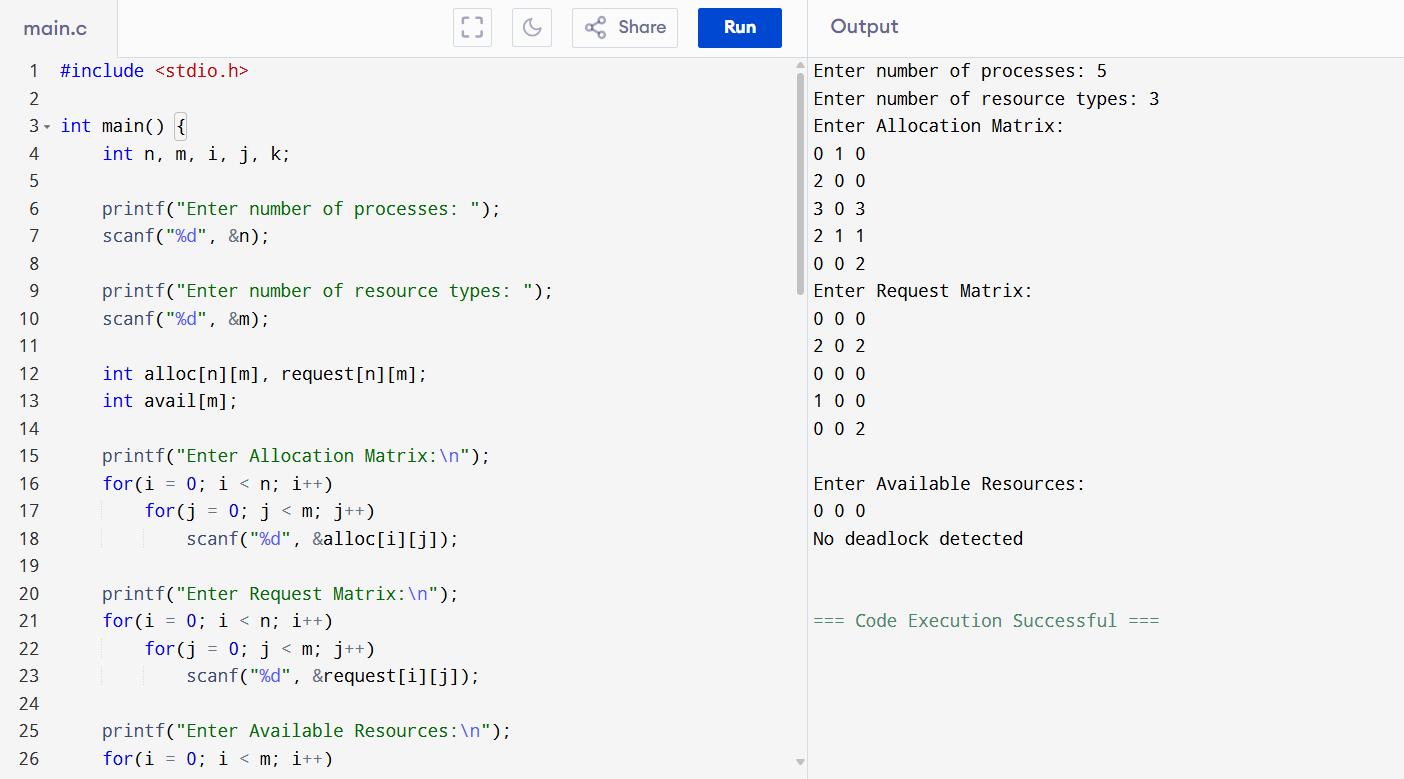
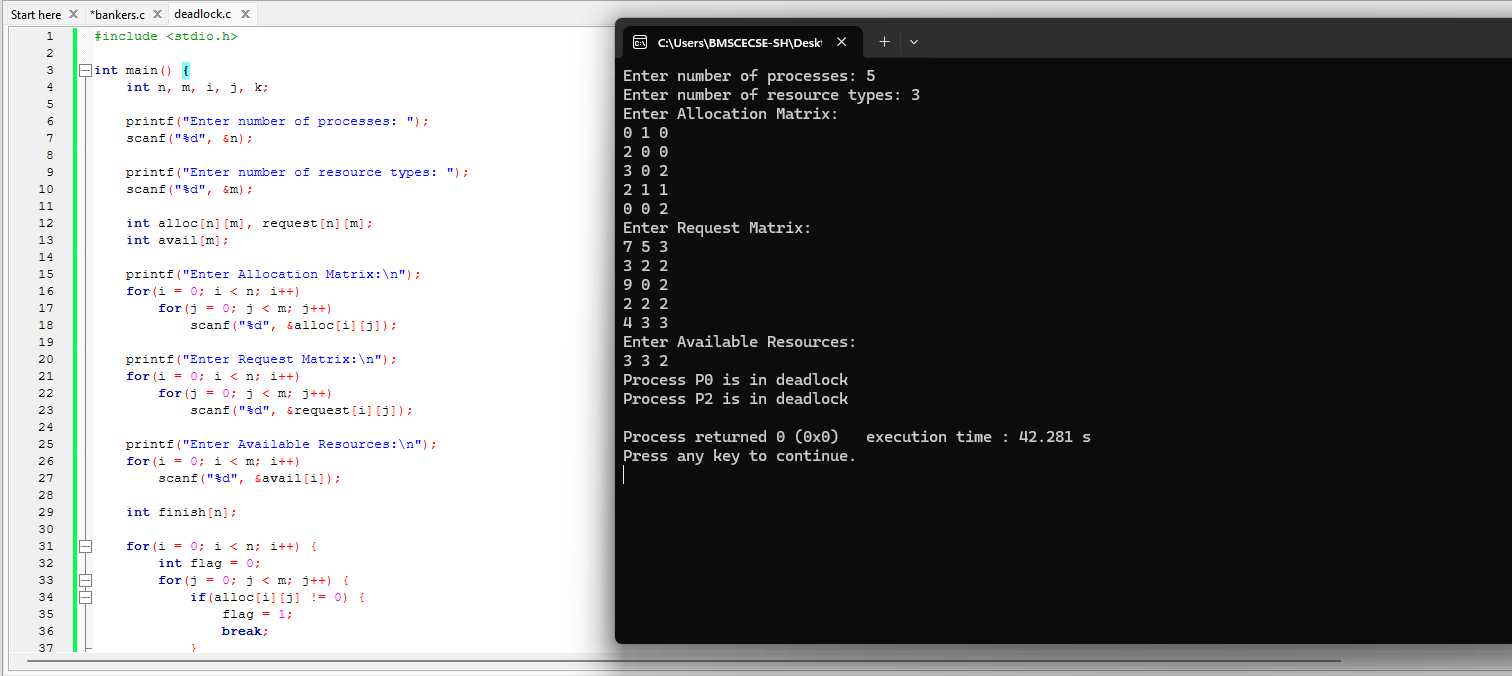
Add files via upload

diff --git a/deadlock.c b/deadlock.c
@@ -1,0 +1,79 @@
+#include <stdio.h>
+
+int main() {
+    int n, m, i, j, k;
+
+    printf("Enter number of processes: ");
+    scanf("%d", &n);
+
+    printf("Enter number of resource types: ");
+    scanf("%d", &m);
+
+    int alloc[n][m], request[n][m];
+    int avail[m];
+
+    printf("Enter Allocation Matrix:\n");
+    for(i = 0; i < n; i++)
+        for(j = 0; j < m; j++)
+            scanf("%d", &alloc[i][j]);
+
+    printf("Enter Request Matrix:\n");
+    for(i = 0; i < n; i++)
+        for(j = 0; j < m; j++)
+            scanf("%d", &request[i][j]);
+
+    printf("Enter Available Resources:\n");
+    for(i = 0; i < m; i++)
+        scanf("%d", &avail[i]);
+
+    int finish[n];
+
+    for(i = 0; i < n; i++) {
+        int flag = 0;
+        for(j = 0; j < m; j++) {
+            if(alloc[i][j] != 0) {
+                flag = 1;
+                break;
+            }
+        }
+        finish[i] = (flag == 0) ? 1 : 0;
+    }
+
+    int work[m];
+    for(i = 0; i < m; i++)
+        work[i] = avail[i];
+
+    while(1) {
+        int found = 0;
+        for(i = 0; i < n; i++) {
+            if(finish[i] == 0) {
+                for(j = 0; j < m; j++)
+                    if(request[i][j] > work[j])
+                        break;
+
+                if(j == m) {
+                    for(k = 0; k < m; k++)
+                        work[k] += alloc[i][k];
+
+                    finish[i] = 1;
+                    found = 1;
+                }
+            }
+        }
+        if(found == 0)
+            break;
+    }
+
+    int deadlock = 0;
+    for(i = 0; i < n; i++) {
+        if(finish[i] == 0) {
+            printf("Process P%d is in deadlock\n", i);
+            deadlock = 1;
+        }
+    }
+
+    if(deadlock == 0)
+        printf("No deadlock detected\n");
+
+    return 0;
+}

diff --git a/bankers.c b/bankers.c
@@ -1,0 +1,75 @@
+#include <stdio.h>
+
+int main() {
+    int n, m, i, j, k;
+
+    printf("Enter number of processes: ");
+    scanf("%d", &n);
+
+    printf("Enter number of resource types: ");
+    scanf("%d", &m);
+
+    int alloc[n][m], max[n][m], need[n][m];
+    int avail[m];
+
+    printf("Enter Allocation Matrix:\n");
+    for(i = 0; i < n; i++)
+        for(j = 0; j < m; j++)
+            scanf("%d", &alloc[i][j]);
+
+    printf("Enter Maximum Matrix:\n");
+    for(i = 0; i < n; i++)
+        for(j = 0; j < m; j++)
+            scanf("%d", &max[i][j]);
+
+    printf("Enter Available Resources:\n");
+    for(i = 0; i < m; i++)
+        scanf("%d", &avail[i]);
+
+    // Calculate Need Matrix
+    for(i = 0; i < n; i++)
+        for(j = 0; j < m; j++)
+            need[i][j] = max[i][j] - alloc[i][j];
+
+    int finish[n], safeSeq[n];
+    for(i = 0; i < n; i++)
+        finish[i] = 0;
+
+    int work[m];
+    for(i = 0; i < m; i++)
+        work[i] = avail[i];
+
+    int count = 0;
+
+    while(count < n) {
+        int found = 0;
+        for(i = 0; i < n; i++) {
+            if(finish[i] == 0) {
+                for(j = 0; j < m; j++)
+                    if(need[i][j] > work[j])
+                        break;
+
+                if(j == m) {
+                    for(k = 0; k < m; k++)
+                        work[k] += alloc[i][k];
+
+                    safeSeq[count++] = i;
+                    finish[i] = 1;
+                    found = 1;
+                }
+            }
+        }
+
+        if(found == 0) {
+            printf("System is NOT in safe state\n");
+            return 0;
+        }
+    }
+
+    printf("System is in SAFE state\nSafe sequence: ");
+    for(i = 0; i < n; i++)
+        printf("P%d ", safeSeq[i]);
+
+    printf("\n");
+    return 0;
+}
